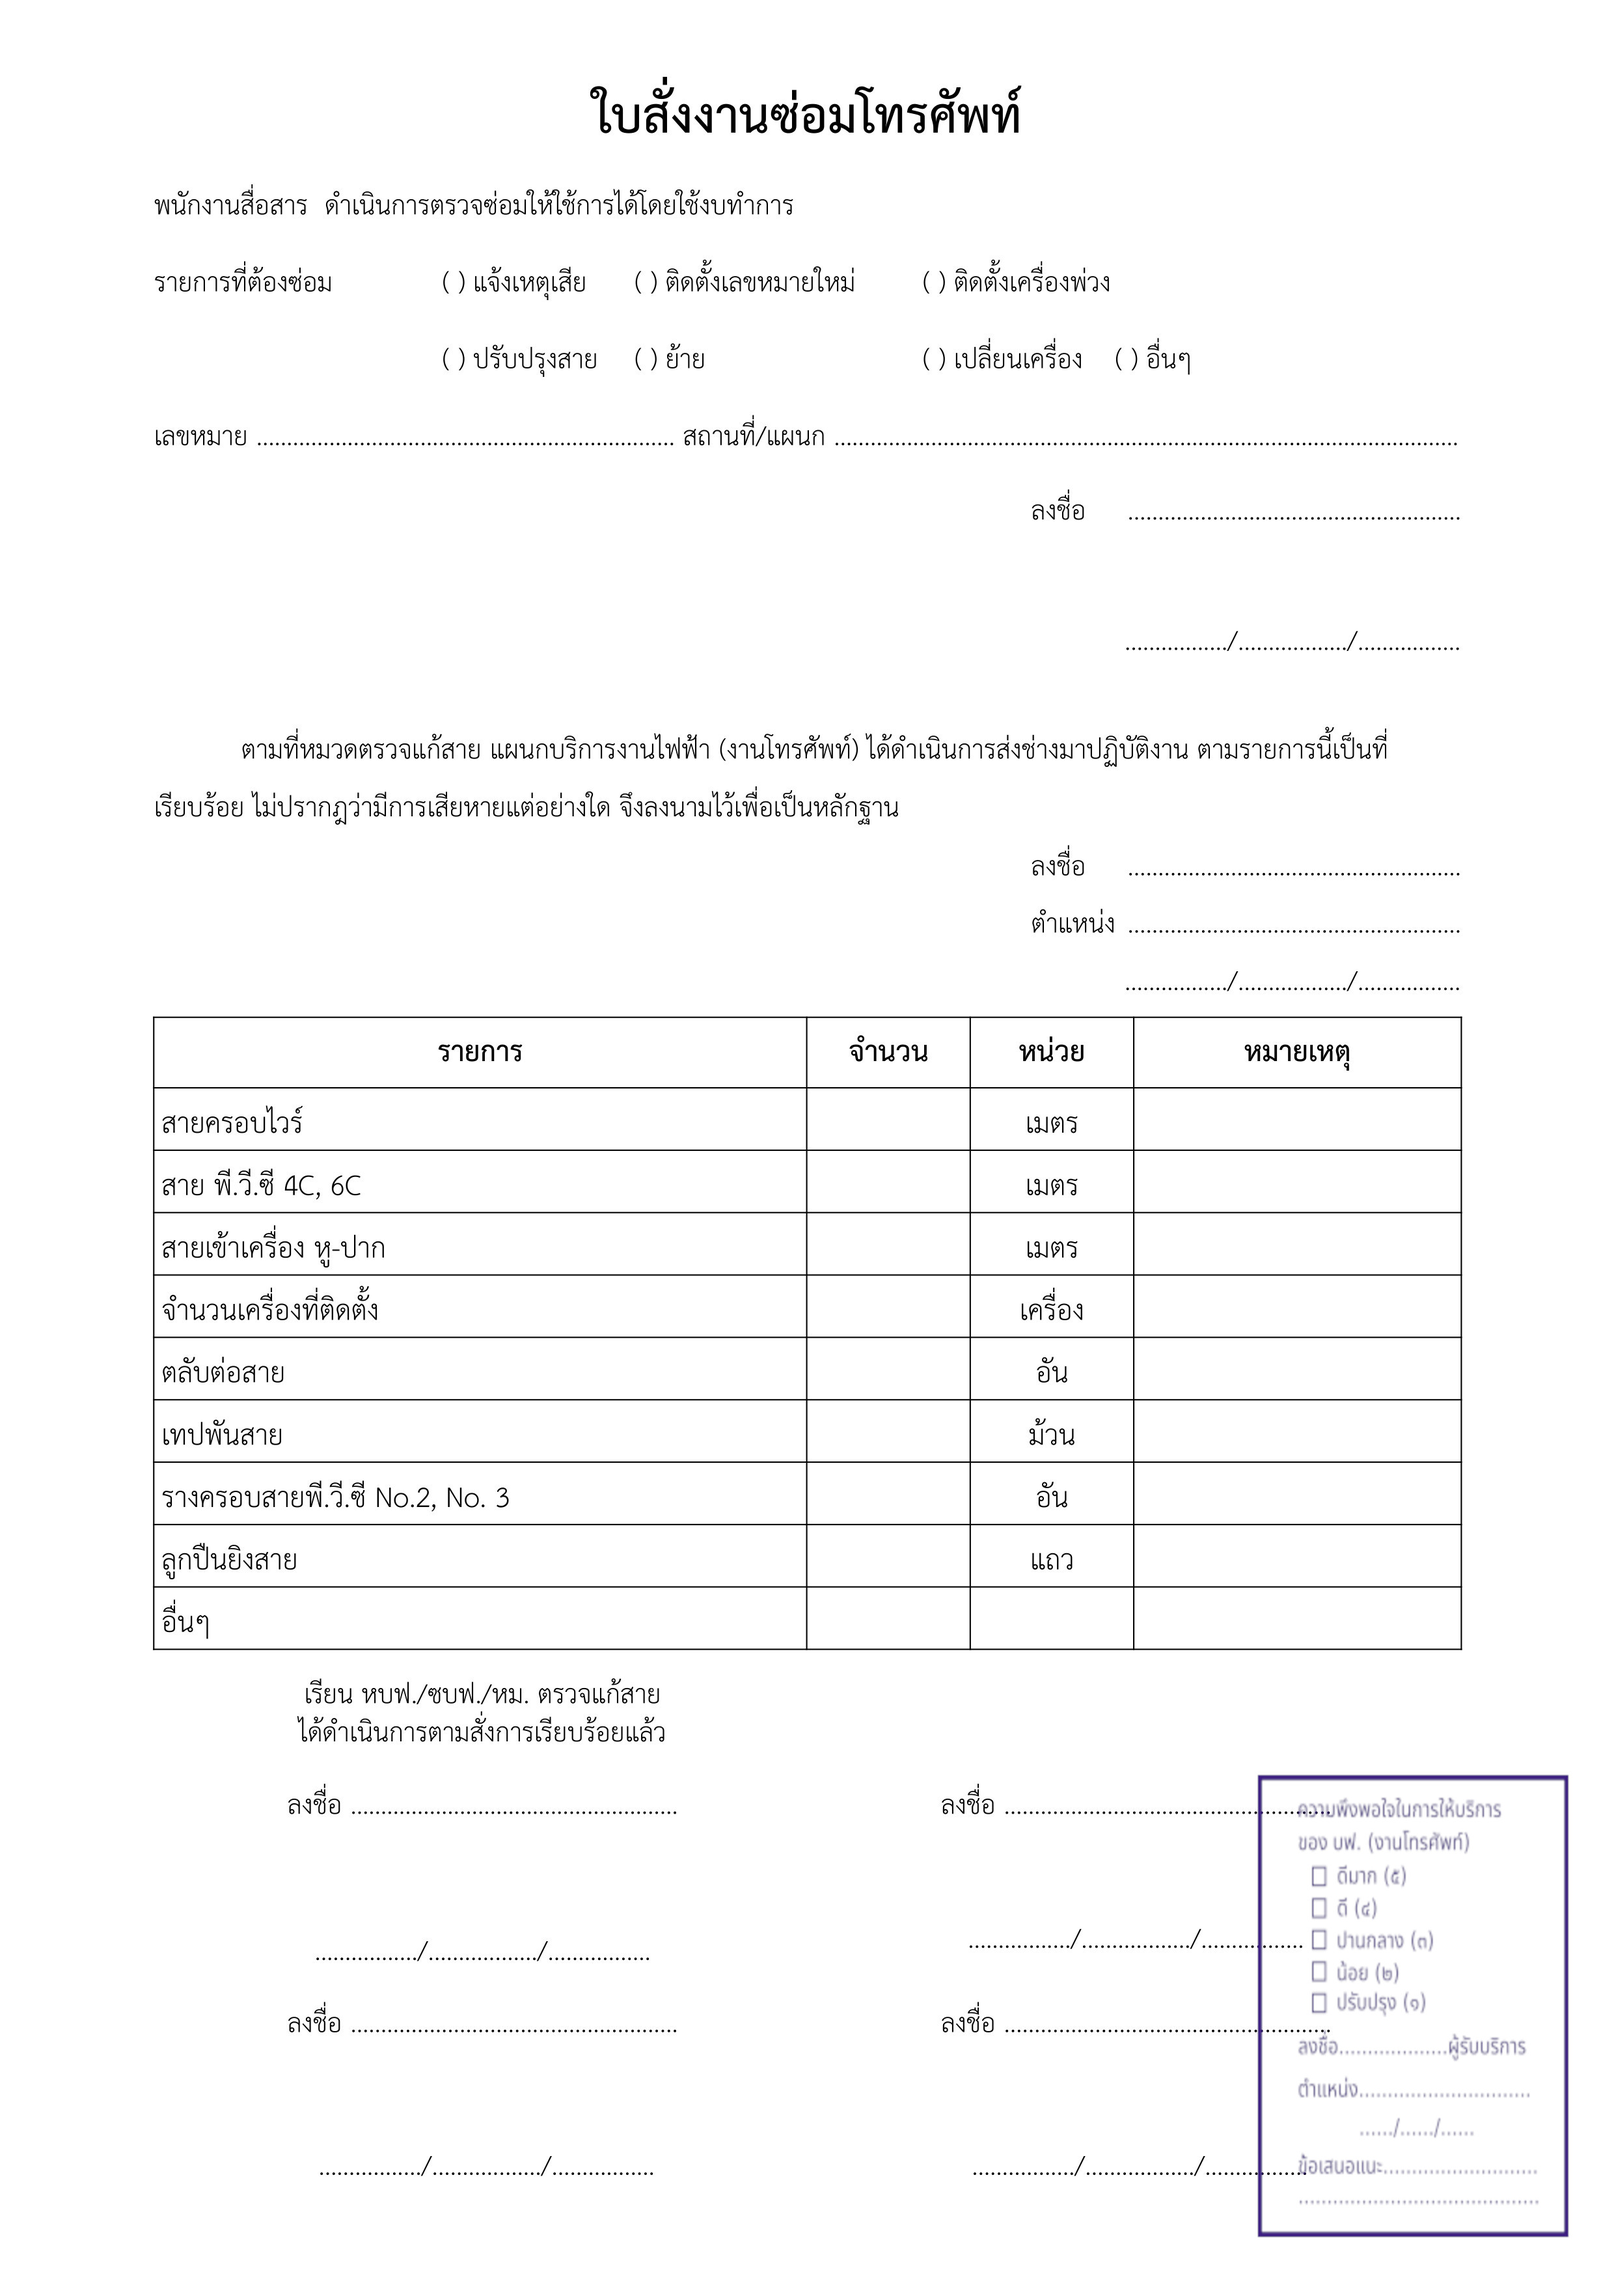
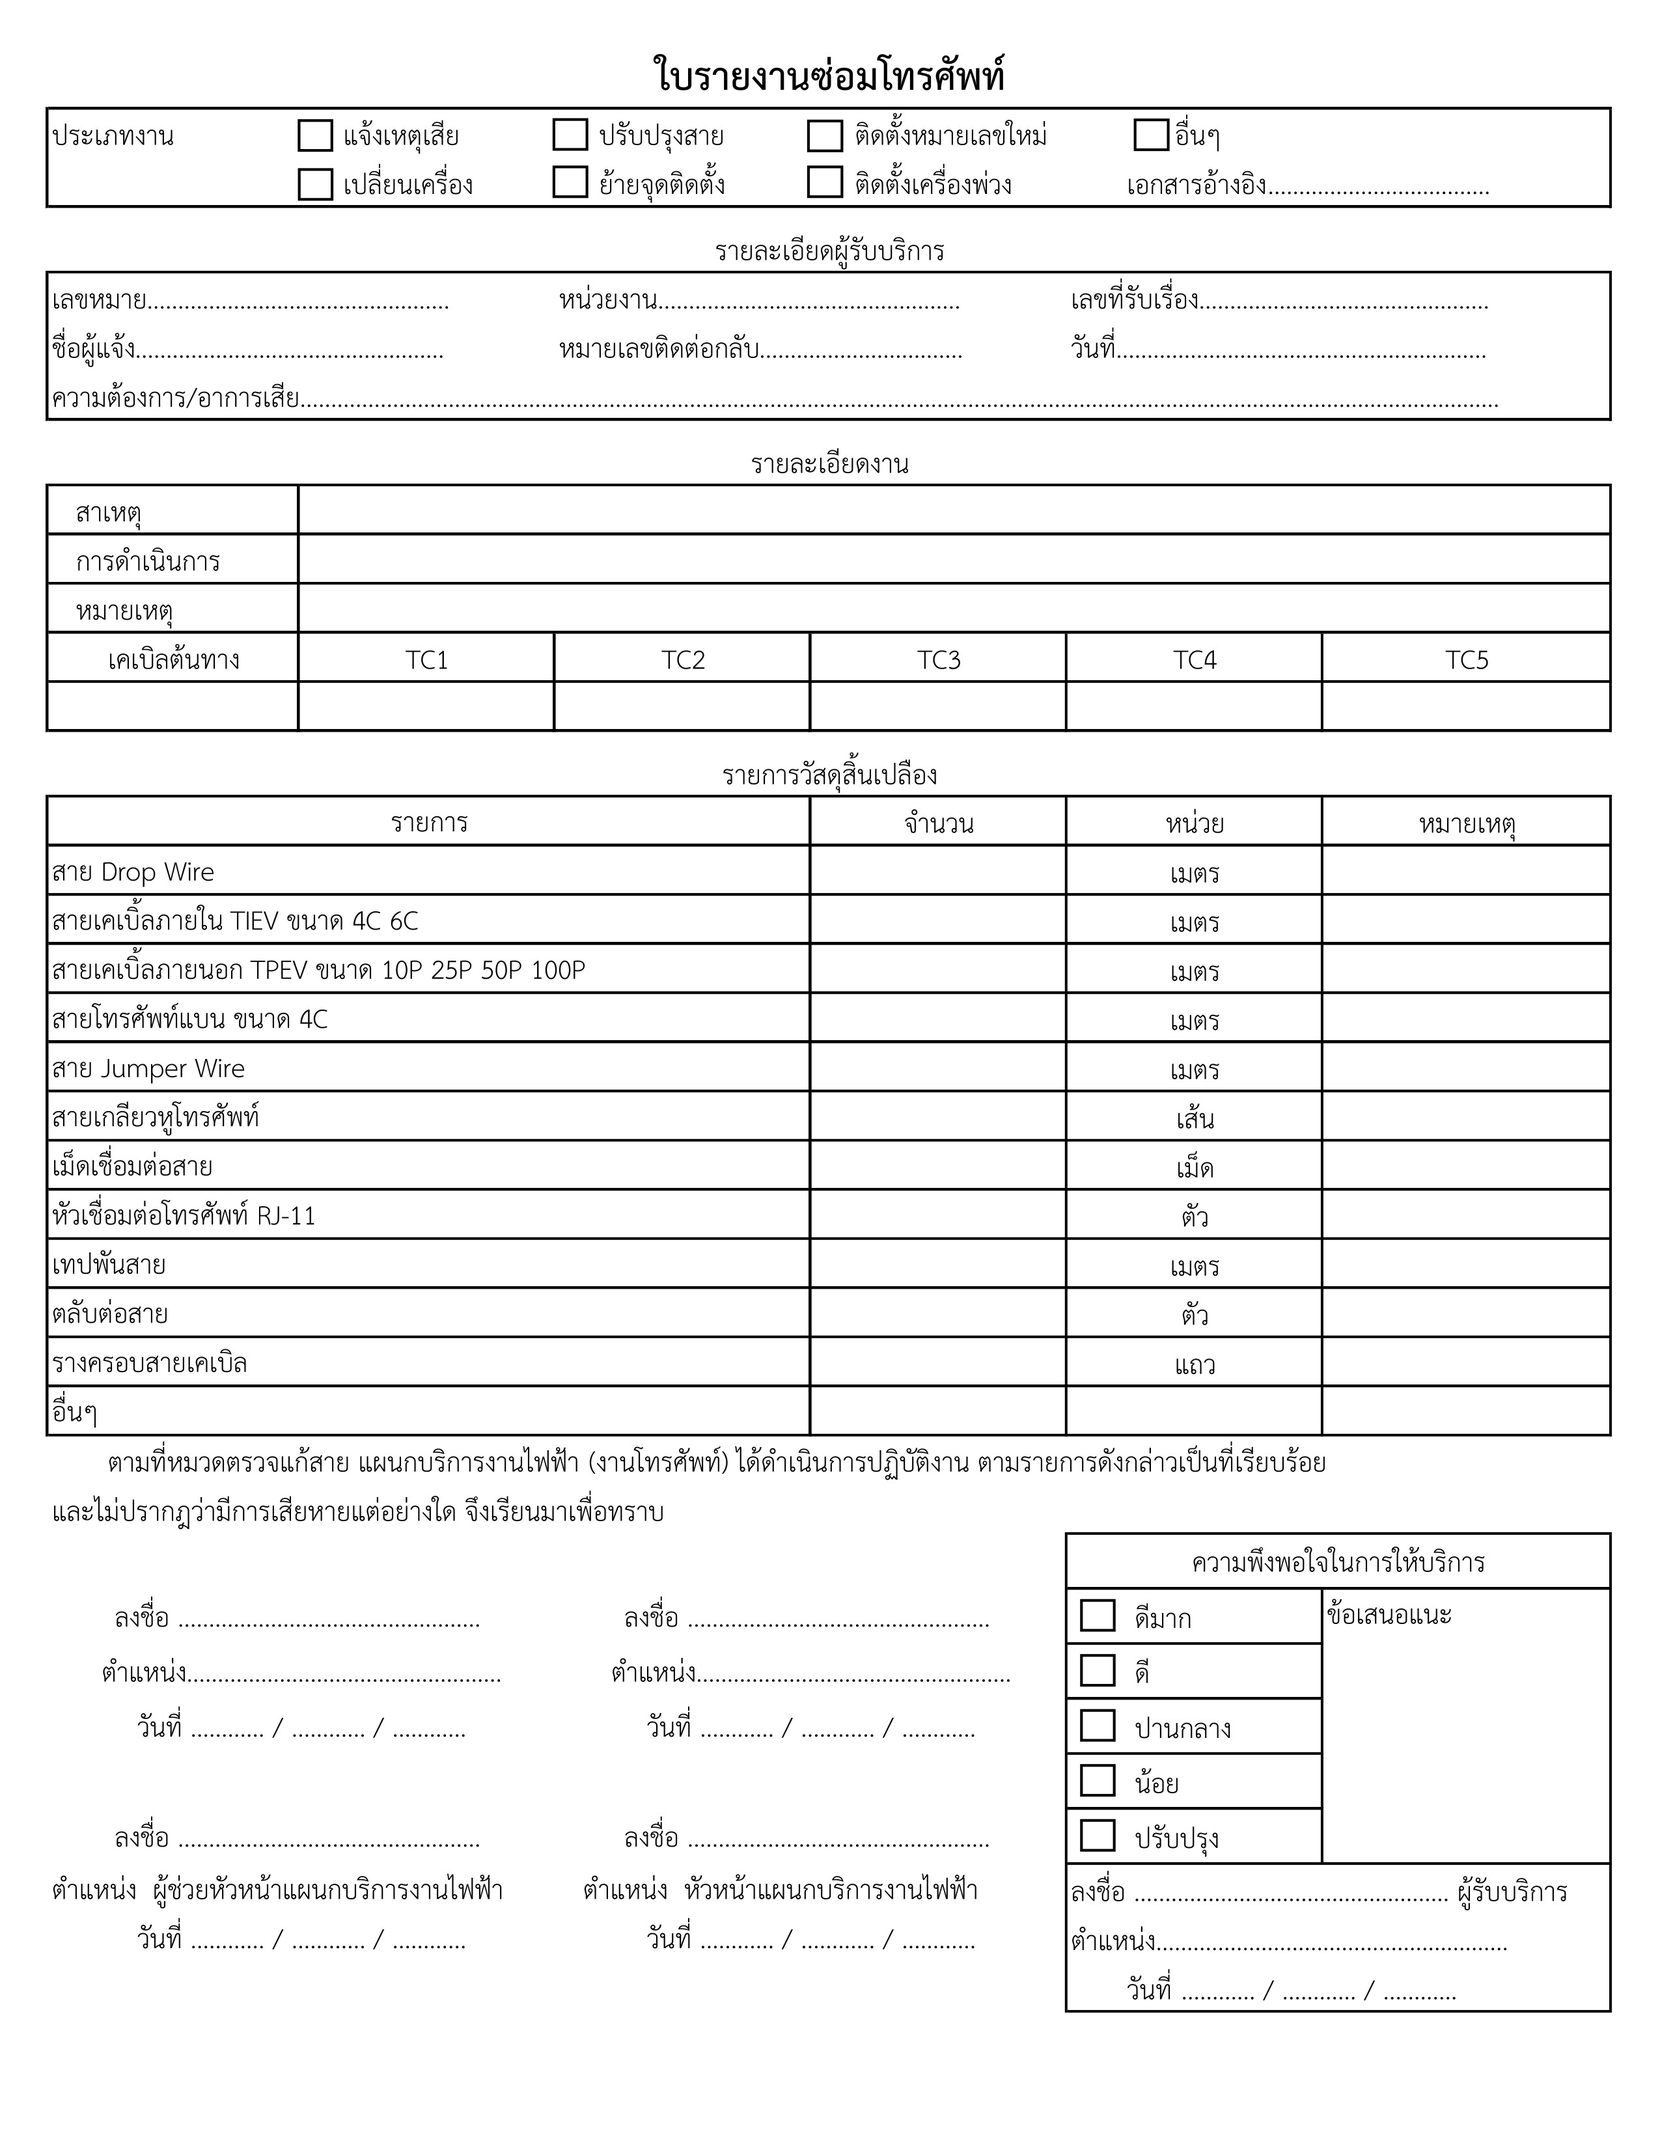
adjust print layout

diff --git a/src/app/models/prn-newissue/prn-newissue.component.html b/src/app/models/prn-newissue/prn-newissue.component.html
@@ -1,20 +1,31 @@
 <div class="print-content">
     <img id="img-frm" src="assets/imags/frm-issue.jpg" style="width: 21cm;" >
-
     <span [style]="'position: absolute; top: ' + y +'cm; left: ' + x + 'cm'">X</span>
     <span style="position: absolute; top: 4.3cm; left: 16cm">{{other}}</span>
-    <span style="position: absolute; top: 5.2cm; left: 4cm">{{no}}</span>
-    <span style="position: absolute; top: 5.2cm; left: 11.5cm">{{location}}</span>
-    <span style="position: absolute; top: 6.7cm; left: 14.8cm">{{profile.name1}}</span>
-    <span style="position: absolute; top: 7.2cm; left: 15cm">{{profile.position1}}</span>
-    <span style="position: absolute; top: 10.7cm; left: 14.8cm">{{profile.name2}}</span>
-    <span style="position: absolute; top: 11.5cm; left: 15cm">{{profile.position2}}</span>
-    <span style="position: absolute; top: 23.5cm; left: 4.5cm">{{profile.name3}}</span>
-    <span style="position: absolute; top: 24cm; left: 4.8cm">{{profile.position3}}</span>
-    <span style="position: absolute; top: 23.5cm; left: 13.2cm">{{profile.name4}}</span>
-    <span style="position: absolute; top: 24cm; left: 13.4cm">{{profile.position4}}</span>
-    <span style="position: absolute; top: 26.4cm; left: 4.8cm">{{profile.name5}}</span>
-    <span style="position: absolute; top: 26.9cm; left: 5.5cm">{{profile.position5}}</span>
+    <span style="position: absolute; top: 3.4cm; left: 2.7cm">{{no}}</span>
+    <span style="position: absolute; top: 3.4cm; left: 8.5cm">{{location}}</span>
+
+    <!--
+    <span style="position: absolute; top: 13.4cm; left: 9cm">{{profile.name1}}</span>
+    <span style="position: absolute; top: 26cm; left: 14cm">{{profile.position1}}</span>
+    -->
+    
+    <!--
+    <span style="position: absolute; top: 20.5cm; left: 14.8cm">{{profile.name2}}</span>
+    <span style="position: absolute; top: 20.5cm; left: 15cm">{{profile.position2}}</span>
+    -->
+
+    <span style="position: absolute; top: 20.7cm; left: 3cm">{{profile.name3}}</span>
+    <span style="position: absolute; top: 20.7cm; left: 3cm">{{profile.position3}}</span>
+
+    <span style="position: absolute; top: 20.7cm; left: 9.5cm">{{profile.name4}}</span>
+    <span style="position: absolute; top: 20.7cm; left: 9.5cm">{{profile.position4}}</span>
+
+    <span style="position: absolute; top: 24.1cm; left: 16cm">{{profile.name5}}</span>
+    <span style="position: absolute; top: 24.1cm; left: 16cm">{{profile.position5}}</span>
+
+    <!--
     <span style="position: absolute; top: 26.4cm; left: 13.2cm">{{profile.name6}}</span>
     <span style="position: absolute; top: 26.9cm; left: 13.4cm">{{profile.position6}}</span>
+    -->
 </div>

diff --git a/src/app/models/prn-newissue/prn-newissue.component.ts b/src/app/models/prn-newissue/prn-newissue.component.ts
@@ -54,8 +54,8 @@ export class PrnNewissueComponent implements OnInit {
 
     switch(type) {
       case '1':
-        this.x = '5.8';
-        this.y = '3.3';
+        this.x = '3.9';
+        this.y = '1.4';
         break;
 
       case '2':
